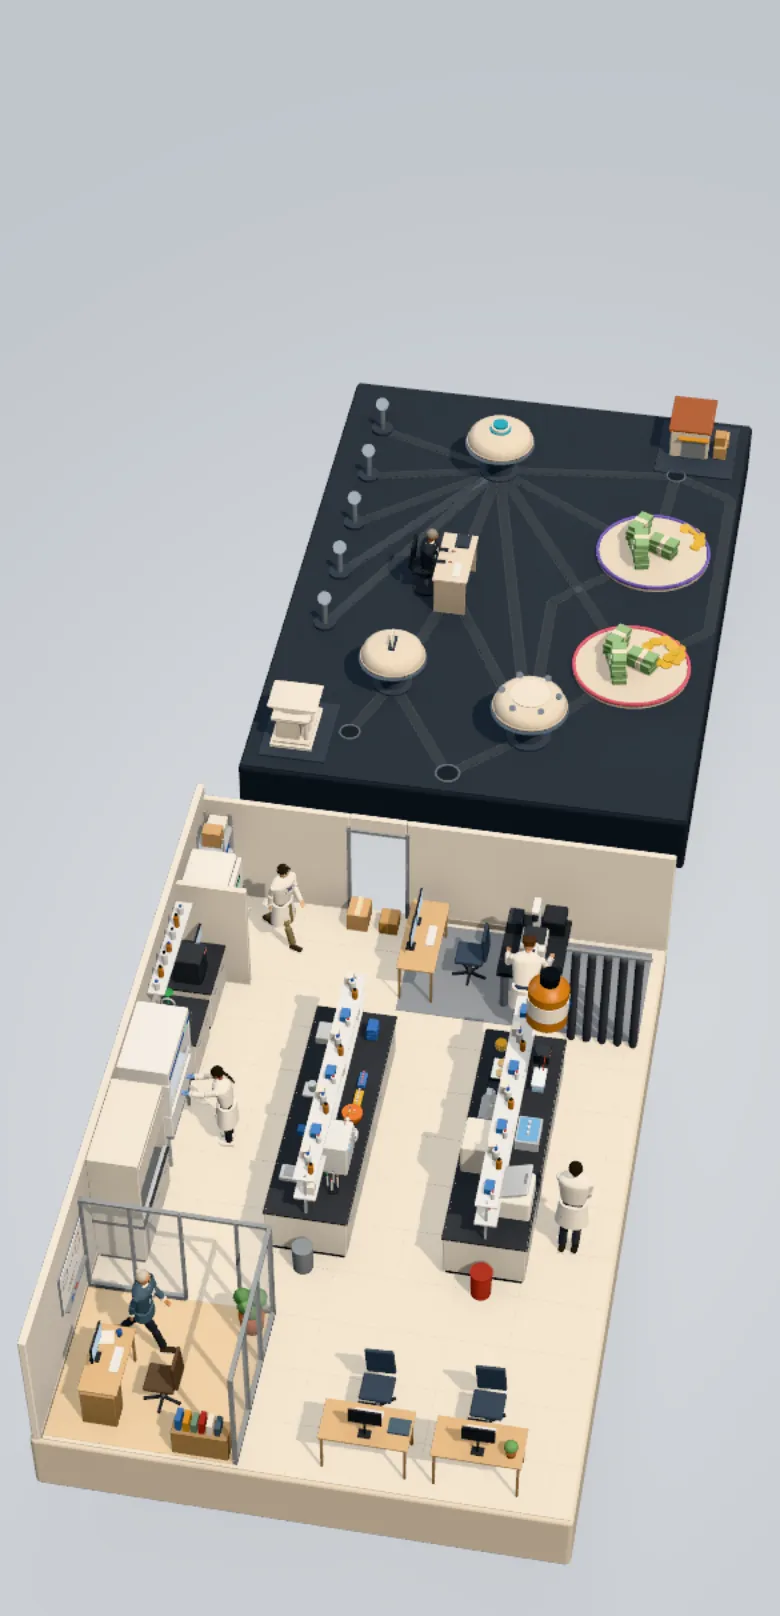
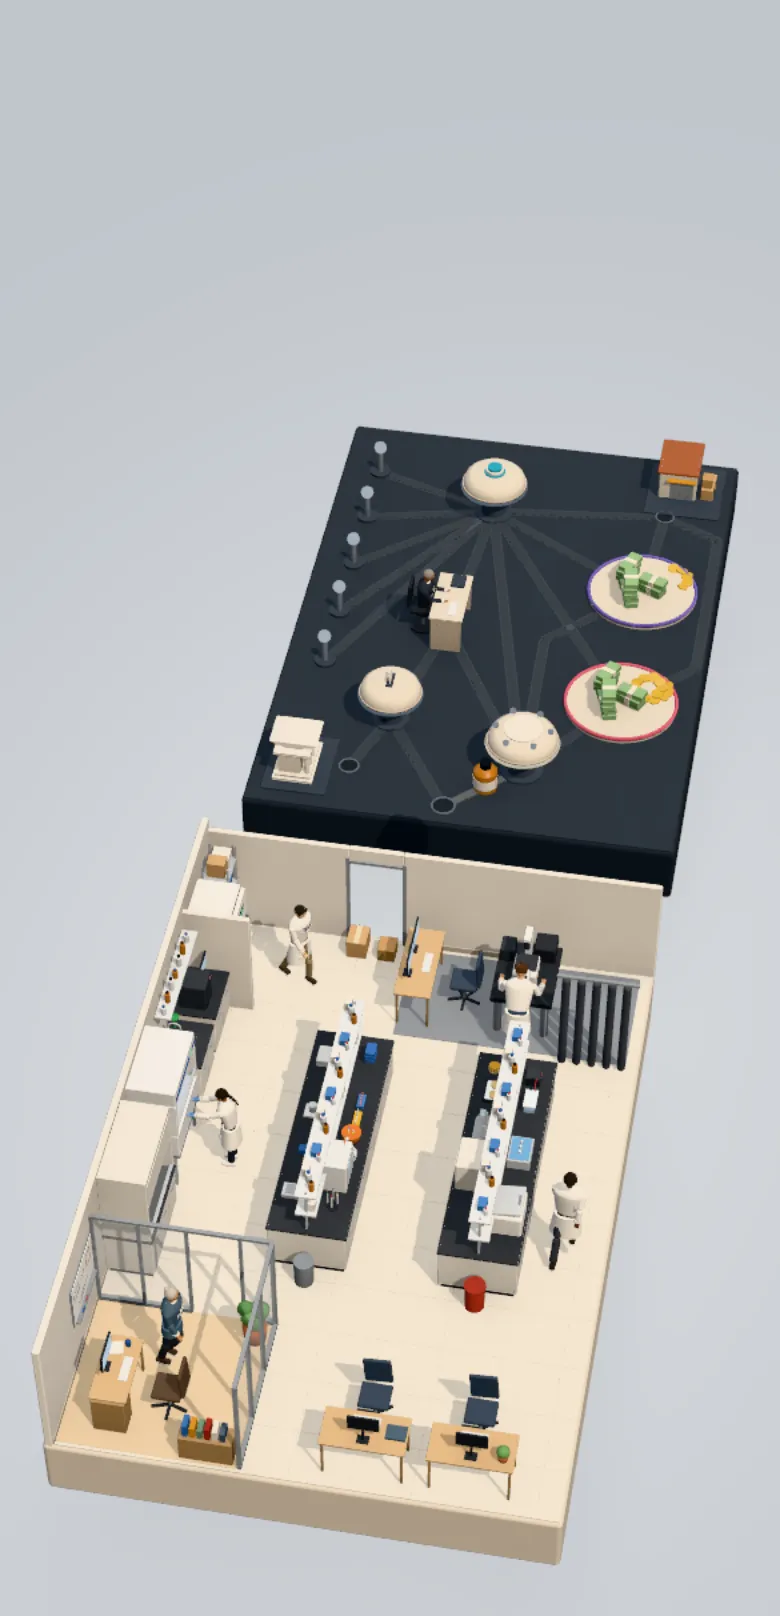
feat(hero): the landing pitch (44% of research time on administration, then what the agents do) and the two names on one line
Under the title: the problem in ink, the solution a step smaller in grey,
balanced when it wraps. On wide screens both names sit on the higher plinth's
top line, each centred over its own; the phone keeps them astride their edges.
The still view and stills match.

Changed region(s): [[0.0308, 0.2166, 0.9846, 0.9901], [0.5231, 0.6807, 0.5538, 0.7426]]

diff --git a/hero/src/demos/a1/zones.tsx b/hero/src/demos/a1/zones.tsx
@@ -478,28 +478,33 @@ const NAME: Record<ZoneId, { text: string; label: string }> = {
 }
 const pinEls: Record<ZoneId, HTMLButtonElement | null> = { lab: null, net: null }
 const _p = new Vector3()
+const spot: Record<ZoneId, { x: number; y: number }> = { lab: { x: 0, y: 0 }, net: { x: 0, y: 0 } }
 
 /** In the Canvas: puts each name where its plinth's back edge is on screen, every frame (the crane moves the camera). */
 export function ZonePins() {
   const on = useZones()
   useFrame(({ camera, size }) => {
     if (!on) return
+    const tall = size.width / size.height < 0.85
     for (const id of ['lab', 'net'] as ZoneId[]) {
-      const el = pinEls[id]
-      if (!el) continue
-      let x = 0
-      let y = Infinity
+      const at = spot[id]
+      at.y = Infinity
       for (const e of EDGES[id]) {
         _p.copy(e).project(camera)
         const sy = ((1 - _p.y) / 2) * size.height
-        if (sy < y) {
-          y = sy
-          x = ((_p.x + 1) / 2) * size.width
+        if (sy < at.y) {
+          at.y = sy
+          at.x = ((_p.x + 1) / 2) * size.width
         }
       }
-      // Wide: just above the edge. Tall (the plinths stacked): astride it, as the gap between them is narrow.
-      const lift = size.width / size.height < 0.85 ? '-50%' : 'calc(-100% - 10px)'
-      el.style.transform = `translate(${x.toFixed(1)}px, ${y.toFixed(1)}px) translate(-50%, ${lift})`
+    }
+    // Wide: both just above the higher of the two edges, in one line. Tall (the plinths stacked): each astride its own edge, as the gap between them is narrow.
+    const top = Math.min(spot.lab.y, spot.net.y)
+    for (const id of ['lab', 'net'] as ZoneId[]) {
+      const el = pinEls[id]
+      if (!el) continue
+      const y = tall ? spot[id].y : top
+      el.style.transform = `translate(${spot[id].x.toFixed(1)}px, ${y.toFixed(1)}px) translate(-50%, ${tall ? '-50%' : 'calc(-100% - 10px)'})`
     }
   })
   return null

diff --git a/hero/src/demos/a1/Hud.tsx b/hero/src/demos/a1/Hud.tsx
@@ -261,8 +261,8 @@ export function Hud({ root }: { root: RefObject<HTMLDivElement | null> }) {
 
 /**
  * Inside another page (embed.ts) the dashboard steps aside and the scene takes
- * the whole box: the name, one line on the product and one on the replay sit
- * in the sky over it, and the two ways in are named over their plinths
+ * the whole box: the name, the problem and what the agents do about it sit in
+ * the sky over it, and the two ways in are named over their plinths
  * (zones.tsx ZoneLabels; Scene.tsx fits the scene under all of it). The way in is the scene itself;
  * the prompt's two phrases are the same two ways in for keys, screen readers
  * and anyone who would rather not aim, and they light their side of the scene.
@@ -272,8 +272,8 @@ export function EmbedHud({ root }: { root: RefObject<HTMLDivElement | null> }) {
     <div className="a-embed-copy" data-float="embed-copy">
       <header className="a-embed-head">
         <h1>Grant Test Auto</h1>
-        <p className="a-embed-sub">An AI grant office that keeps a lab’s spending inside its grants’ rules.</p>
-        <p className="a-lede">A simulated lab replaying a scripted story; the spending rules are the real ones.</p>
+        <p className="a-embed-sub">Researchers spend 44% of their federally funded research time on administration.</p>
+        <p className="a-embed-sol">AI agents do the grant office’s checking: status, balance, rules and invoices. Researchers do science, and the grant manager decides only the exceptions.</p>
       </header>
       <RootSync root={root} phone={false} />
     </div>

diff --git a/hero/src/demos/a1/zones.css b/hero/src/demos/a1/zones.css
@@ -159,25 +159,26 @@
 }
 
 /* The still (embed.tsx Still): the names where the live view puts them, as a
-   share of the stage the stills were shot at (1440x864 wide, 390x808 tall). */
+   share of the stage the stills were shot at (1440x864 wide, 390x808 tall).
+   Wide, both share the higher plinth's top line. */
 .demo-a1 .a-still-pins .a1-zone-pin {
   transform: translate(-50%, 0);
 }
 .demo-a1 .a-still-pin-lab {
   left: 23%;
-  top: 35.8%;
+  top: 28.2%;
 }
 .demo-a1 .a-still-pin-net {
-  left: 68.8%;
-  top: 24.8%;
+  left: 69.3%;
+  top: 28.2%;
 }
 @media (max-width: 759px) {
   .demo-a1 .a-still-pin-lab {
-    left: 55.4%;
-    top: 48.4%;
+    left: 55.1%;
+    top: 50.4%;
   }
   .demo-a1 .a-still-pin-net {
-    left: 71.3%;
-    top: 19.4%;
+    left: 70.4%;
+    top: 22.2%;
   }
 }

diff --git a/hero/src/embed.tsx b/hero/src/embed.tsx
@@ -80,8 +80,8 @@ function Still({ go }: { go: (role?: Role) => void }) {
         <div className="a-embed-copy">
           <header className="a-embed-head">
             <h1>Grant Test Auto</h1>
-            <p className="a-embed-sub">An AI grant office that keeps a lab’s spending inside its grants’ rules.</p>
-            <p className="a-lede">A still of the simulated lab; the spending rules are the real ones.</p>
+            <p className="a-embed-sub">Researchers spend 44% of their federally funded research time on administration.</p>
+            <p className="a-embed-sol">AI agents do the grant office’s checking: status, balance, rules and invoices. Researchers do science, and the grant manager decides only the exceptions.</p>
           </header>
         </div>
       </div>

diff --git a/hero/src/demos/a1/demo-a1.css b/hero/src/demos/a1/demo-a1.css
@@ -1468,7 +1468,16 @@
   font-size: clamp(14px, 1.1vw, 16px);
   font-weight: 500;
   line-height: 1.4;
-  color: var(--ink-2);
+  color: var(--ink);
+  text-wrap: balance;
+}
+/* What the agents do about it: a step smaller, in grey, wrapping evenly when it must. */
+.demo-a1 .a-embed-sol {
+  max-width: 60ch;
+  margin: 4px auto 0;
+  font-size: clamp(13px, 0.98vw, 14.5px);
+  line-height: 1.45;
+  color: var(--ink-3);
   text-wrap: balance;
 }
 .demo-a1 .a-embed-head .a-lede {
@@ -1546,6 +1555,9 @@
   .demo-a1 .a-embed-sub {
     margin-top: 6px;
     font-size: 14px;
+  }
+  .demo-a1 .a-embed-sol {
+    font-size: 12.5px;
   }
   .demo-a1 .a-embed-head .a-lede {
     font-size: 11.5px;
